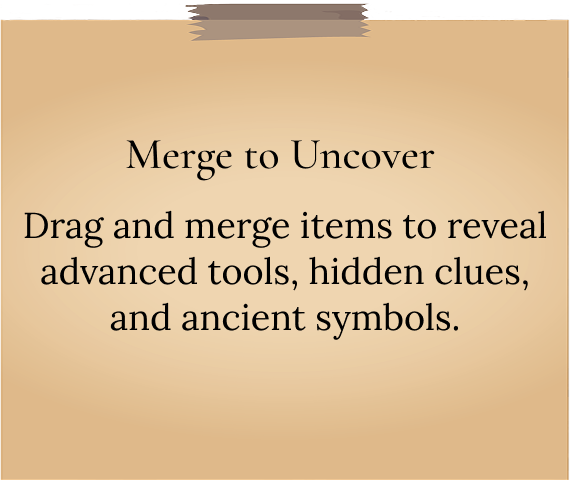
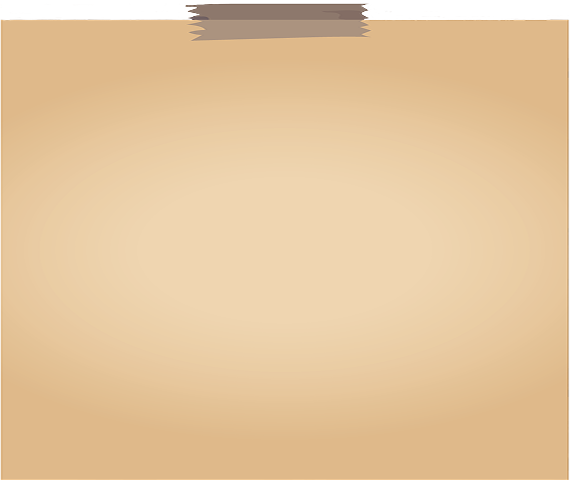
update cards

diff --git a/src/partials/gameplay-features.html b/src/partials/gameplay-features.html
@@ -6,5 +6,62 @@
       </div>
       <hr />
     </div>
+    <div class="features-content">
+      <div class="fogs">
+        <div class="fog fog-one"></div>
+        <div class="fog fog-two"></div>
+      </div>
+      <div class="features-cards">
+        <div class="features-card">
+          <h4>Merge to Uncover</h4>
+          <p>
+            Drag and merge items to reveal advanced tools, hidden clues, and
+            ancient symbols.
+          </p>
+        </div>
+        <div class="features-card">
+          <h4>Clue-Driven Puzzles</h4>
+          <p>
+            Every successful merge moves the story forward — new hints appear as
+            items evolve.
+          </p>
+        </div>
+        <div class="features-card">
+          <h4>Town Restoration</h4>
+          <p>
+            Repair burned ruins, unlock haunted streets, and bring light to
+            fog-covered neighborhoods.
+          </p>
+        </div>
+        <div class="features-card">
+          <h4>Character Interactions</h4>
+          <p>
+            From cryptic strangers to old friends with secrets, each encounter
+            may change the story’s course.
+          </p>
+        </div>
+        <div class="features-card">
+          <h4>Dynamic Storyline</h4>
+          <p>
+            Multiple narrative threads with branching paths and moral choices.
+          </p>
+        </div>
+        <div class="features-card">
+          <h4>Mystical Atmosphere</h4>
+          <p>
+            Rich audio effects, eerie background music, and foggy visuals
+            immerse you fully.
+          </p>
+        </div>
+        <div class="features-card">
+          <h4>Zero Ads, Pure Mystery</h4>
+          <p>Dive deep without interruptions every clue counts.</p>
+        </div>
+        <div class="features-card">
+          <h4>Offline Progress</h4>
+          <p>The town remembers your steps, even if you leave for a while.</p>
+        </div>
+      </div>
+    </div>
   </div>
 </section>

diff --git a/src/css/gameplay-features.css b/src/css/gameplay-features.css
@@ -1,0 +1,69 @@
+.features-content {
+  position: relative;
+  /* overflow: hidden; */
+}
+.fog {
+  position: absolute;
+
+  width: 398px;
+  height: 217px;
+  background-image: image-set(
+    url('/img/gameplayFeatures/fog-mob.png') 1x,
+    url('/img/gameplayFeatures/fog-2x-mob.png') 2x
+  );
+  background-repeat: no-repeat;
+
+  z-index: 0;
+  pointer-events: none;
+}
+.fog-one {
+  top: 25%;
+  left: 0;
+  animation: fogMoveOne 5s linear infinite alternate;
+}
+.fog-two {
+  top: 75%;
+  right: 0;
+  animation: fogMoveTwo 5s linear infinite alternate;
+}
+@keyframes fogMoveOne {
+  0% {
+    transform: translateX(0);
+  }
+  100% {
+    transform: translateX(-40%);
+  }
+}
+@keyframes fogMoveTwo {
+  0% {
+    transform: translateX(0);
+  }
+  100% {
+    transform: translateX(30%);
+  }
+}
+
+.features-cards {
+  position: relative;
+  z-index: 1;
+
+  display: grid;
+  gap: 16px;
+  grid-template-columns: 1fr;
+}
+.features-card {
+    background-image: image-set(
+    url('/img/gameplayFeatures/card.png') 1x,
+    url('/img/gameplayFeatures/card-2x.png') 2x
+  );
+  background-repeat: no-repeat;
+  background-position: center;
+
+  display: flex;
+  align-items: center;
+  justify-content: center;
+  text-align: center;
+
+  min-width: 285px;
+  min-height: 240px;
+}
